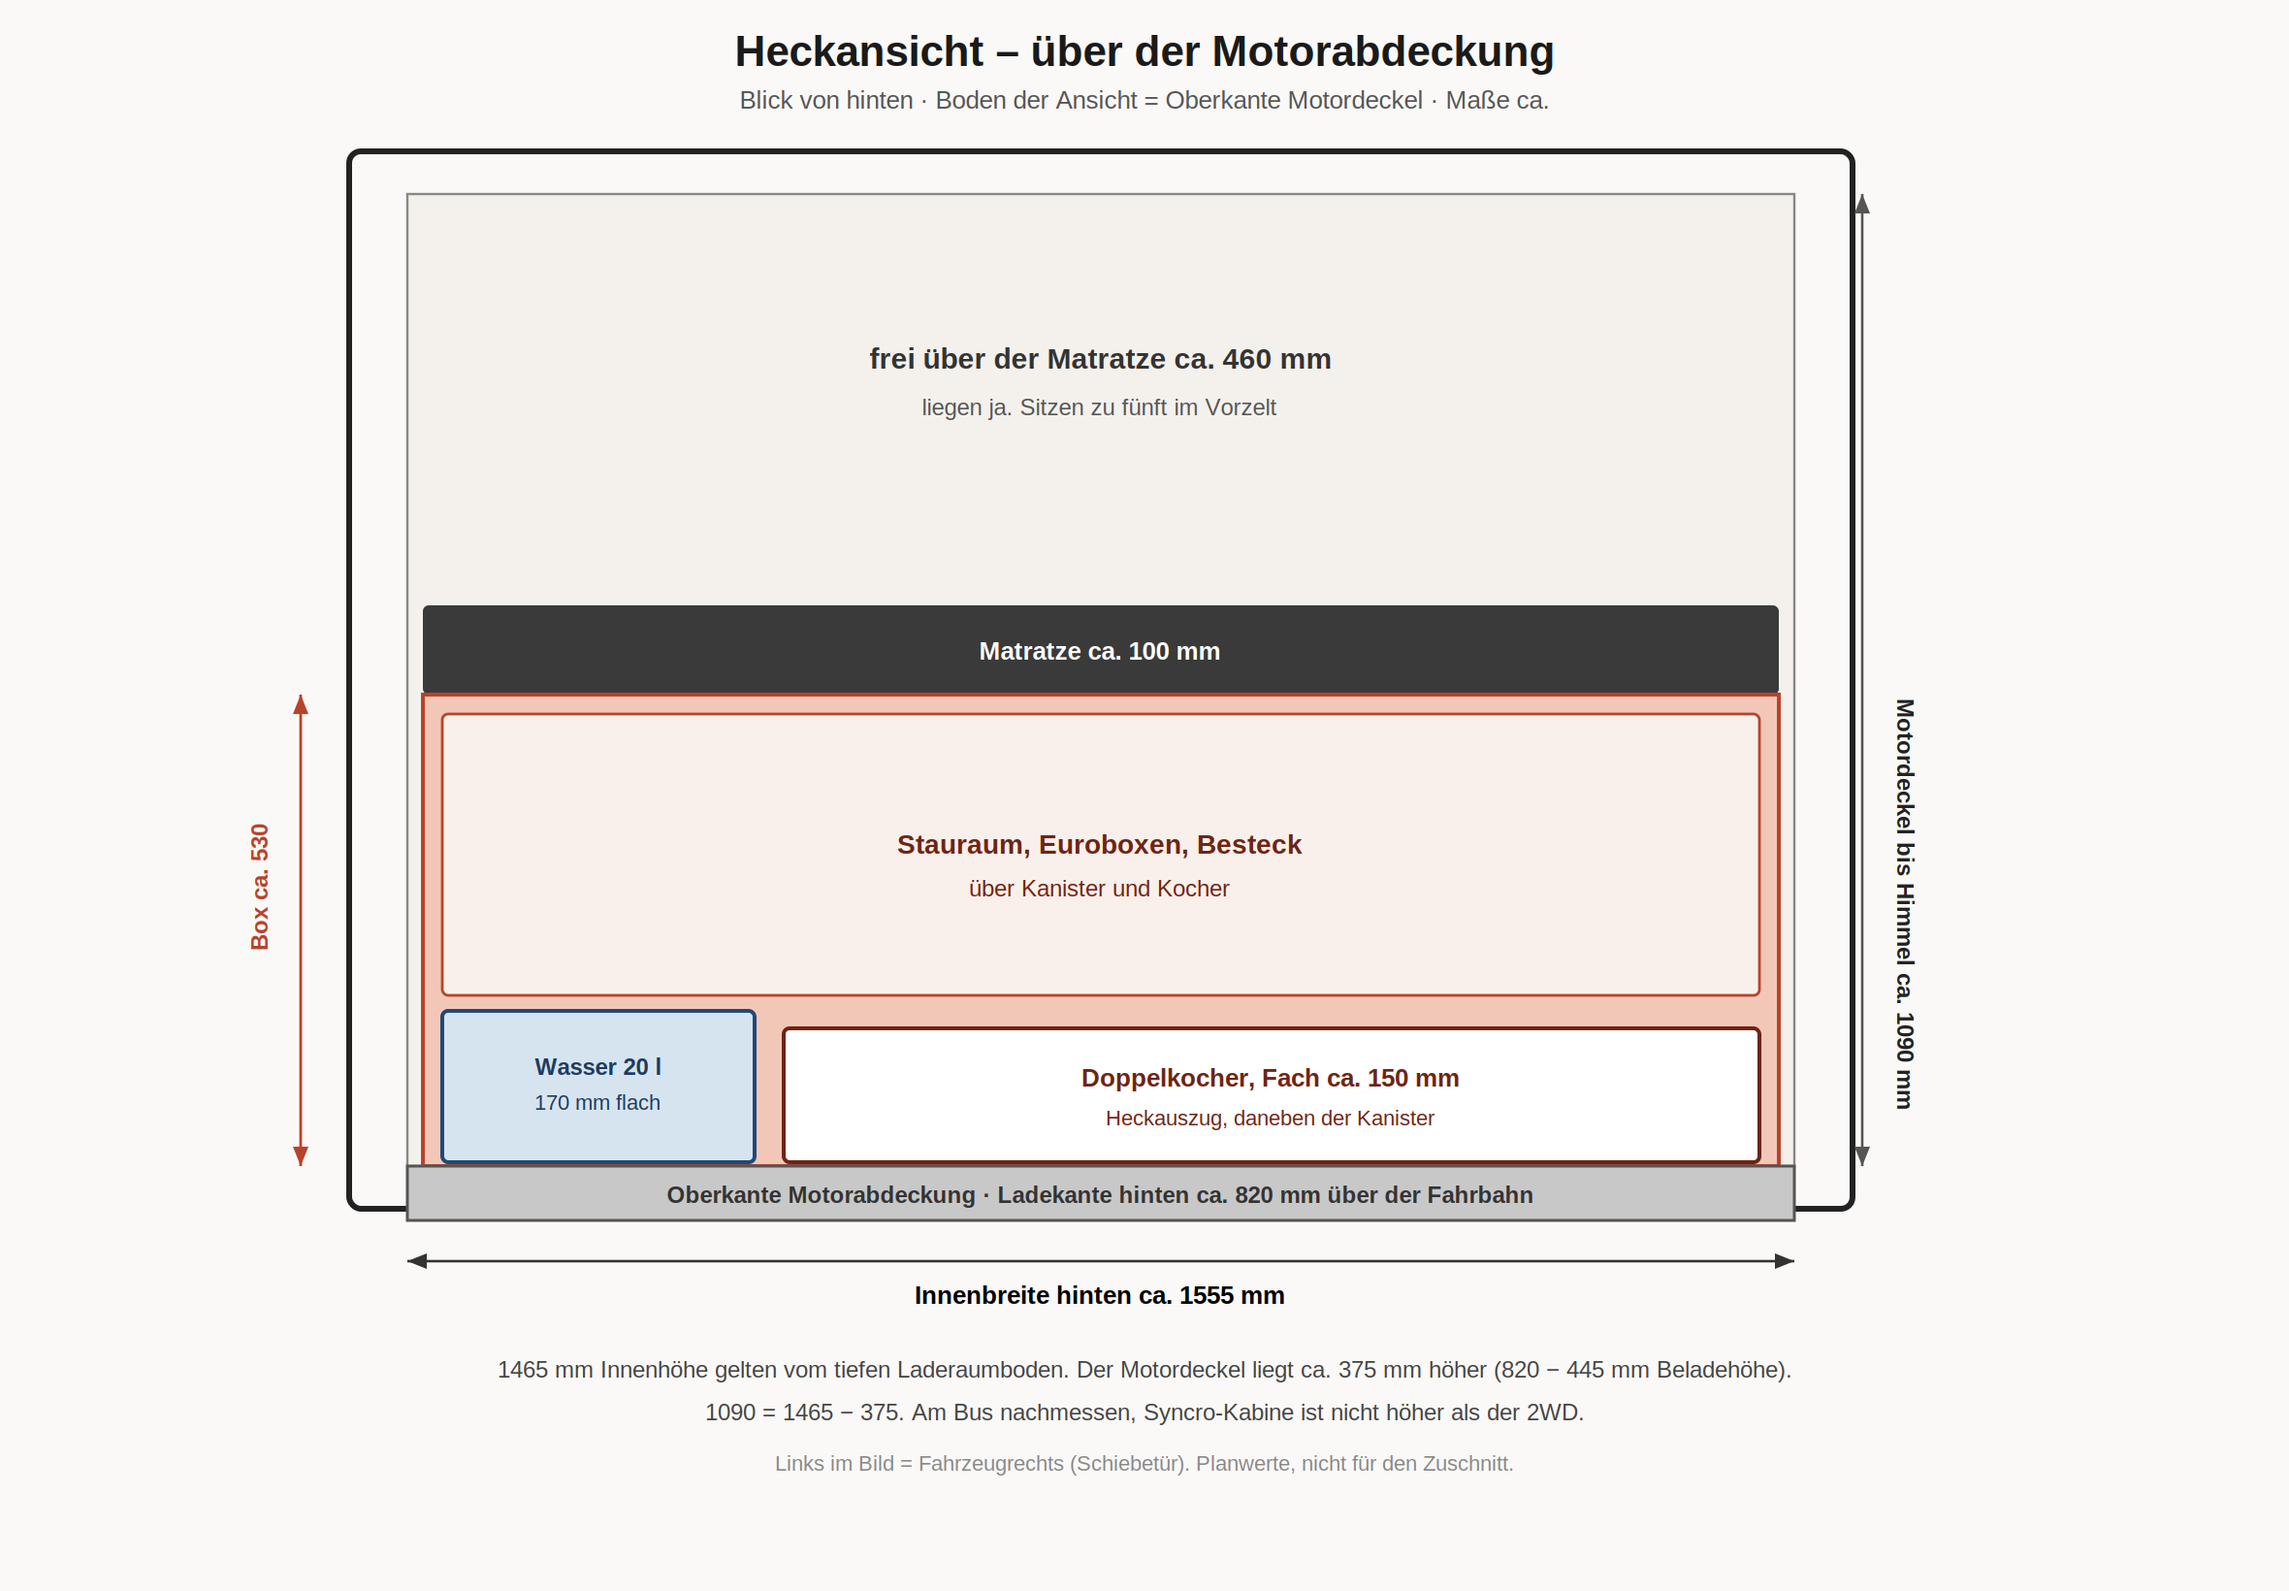
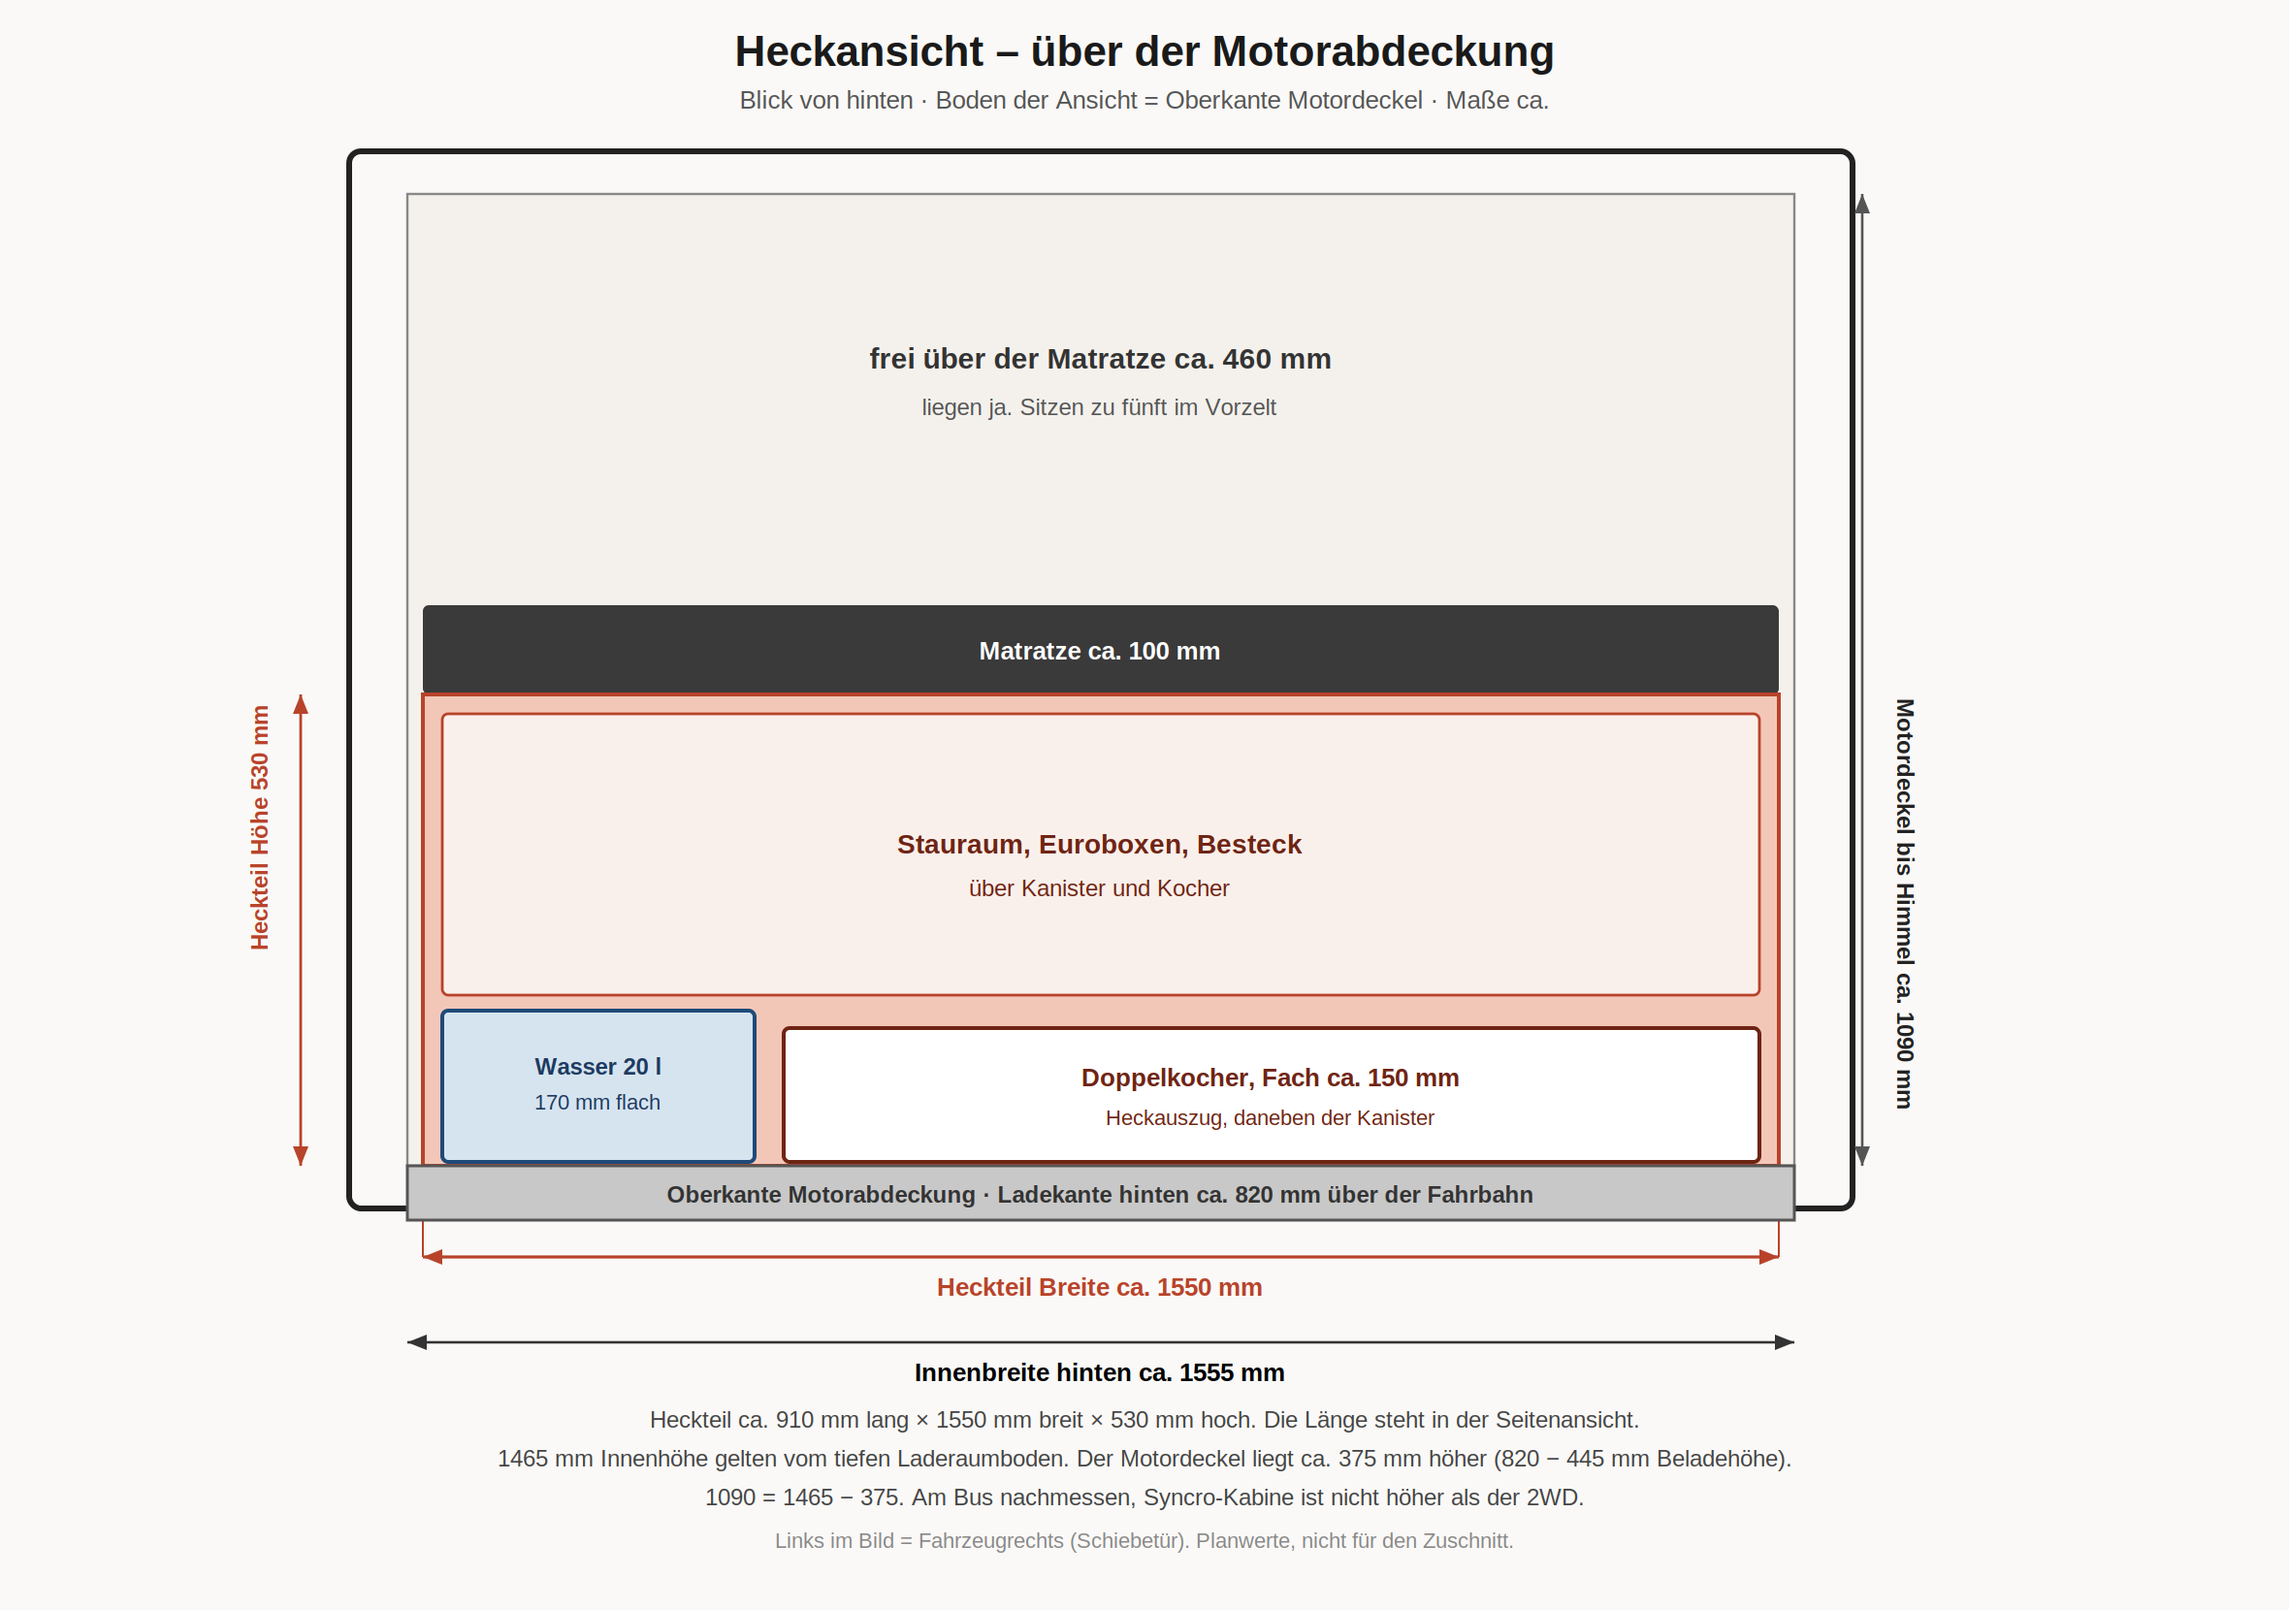
Dimension the rear box section over the engine
The rear module is about 910 mm long, 1550 mm wide and 530 mm high. Those sizes are drawn on the side and rear sketches.

diff --git a/docs/t3-syncro-camping-referenz.md b/docs/t3-syncro-camping-referenz.md
@@ -19,7 +19,7 @@ Die Campingbox bleibt so, bis am Bus nachgemessen wird. Kein Materialzuschnitt i
 
 **Höhen:** 1465 mm gelten vom tiefen Boden. Der Motordeckel liegt ca. 375 mm höher. Vom Motordeckel bis zum Himmel ca. 1090 mm. Frei über der Matratze hinten ca. 460 mm. Darauf sitzen ist nicht das Ziel.
 
-**Box:** Liege oben, eben. Vorderer Teil ca. 980 mm auf dem tiefen Boden, Stauraum dort ca. 900 mm hoch. Heckteil auf der Motorabdeckung, Höhe ca. 530 mm, dieselbe Höhe wie zuvor für den LifeSaver. Der hohe Kasten ist Stauraum, nicht Sitzfreiheit.
+**Box:** Liege oben, eben. Vorderer Teil ca. 980 mm auf dem tiefen Boden, Stauraum dort ca. 900 mm hoch. Heckteil auf der Motorabdeckung ca. **910 × 1550 × 530 mm** (Länge × Breite × Höhe). Die Motorabdeckung selbst ist nur ca. 1190 mm breit, der Kasten geht bis an die Seiten. Der hohe Kasten ist Stauraum, nicht Sitzfreiheit.
 
 **Heckauszug** (von der Heckklappe): flacher Wasserkanister, Höhe max. 170 mm, ca. 20 l, neben dem Doppel-Gaskocher (Fach mind. 560 × 400 × 150 mm). Darüber der große Stauraum. Der LifeSaver Jerrycan bleibt draußen. Kochen nur bei offener Heckklappe.
 
@@ -656,6 +656,7 @@ Modell noch offen. Gesucht wird ein Vorzelt zum Stehen und Sitzen für fünf, da
 | 2026-09-24 | Heavy 230/125 mit Aufsatzwänden: Kinderräder stehen. Zelt auf Lastenträger oder eigene Querträger, nicht auf den Polyesterdeckel |
 | 2026-09-24 | LifeSaver Jerrycan raus. Heckteil ca. 220 mm, flacher 20-l-Kanister, ca. 770 mm über der Matratze |
 | 2026-09-24 | Heckteil wieder ca. 530 mm wegen Stauraum. Sitzen zu fünft im Vorzelt, nicht auf der Liege |
+| 2026-09-24 | Heckteil bemaßt: ca. 910 × 1550 × 530 mm, in Seiten- und Heckansicht eingezeichnet |
 | 2026-09-24 | Box-Follow-up: Geometrie bleibt pausiert; Anhänger ist entschieden, Kocher bleibt im Heckauszug |
 
 ---
